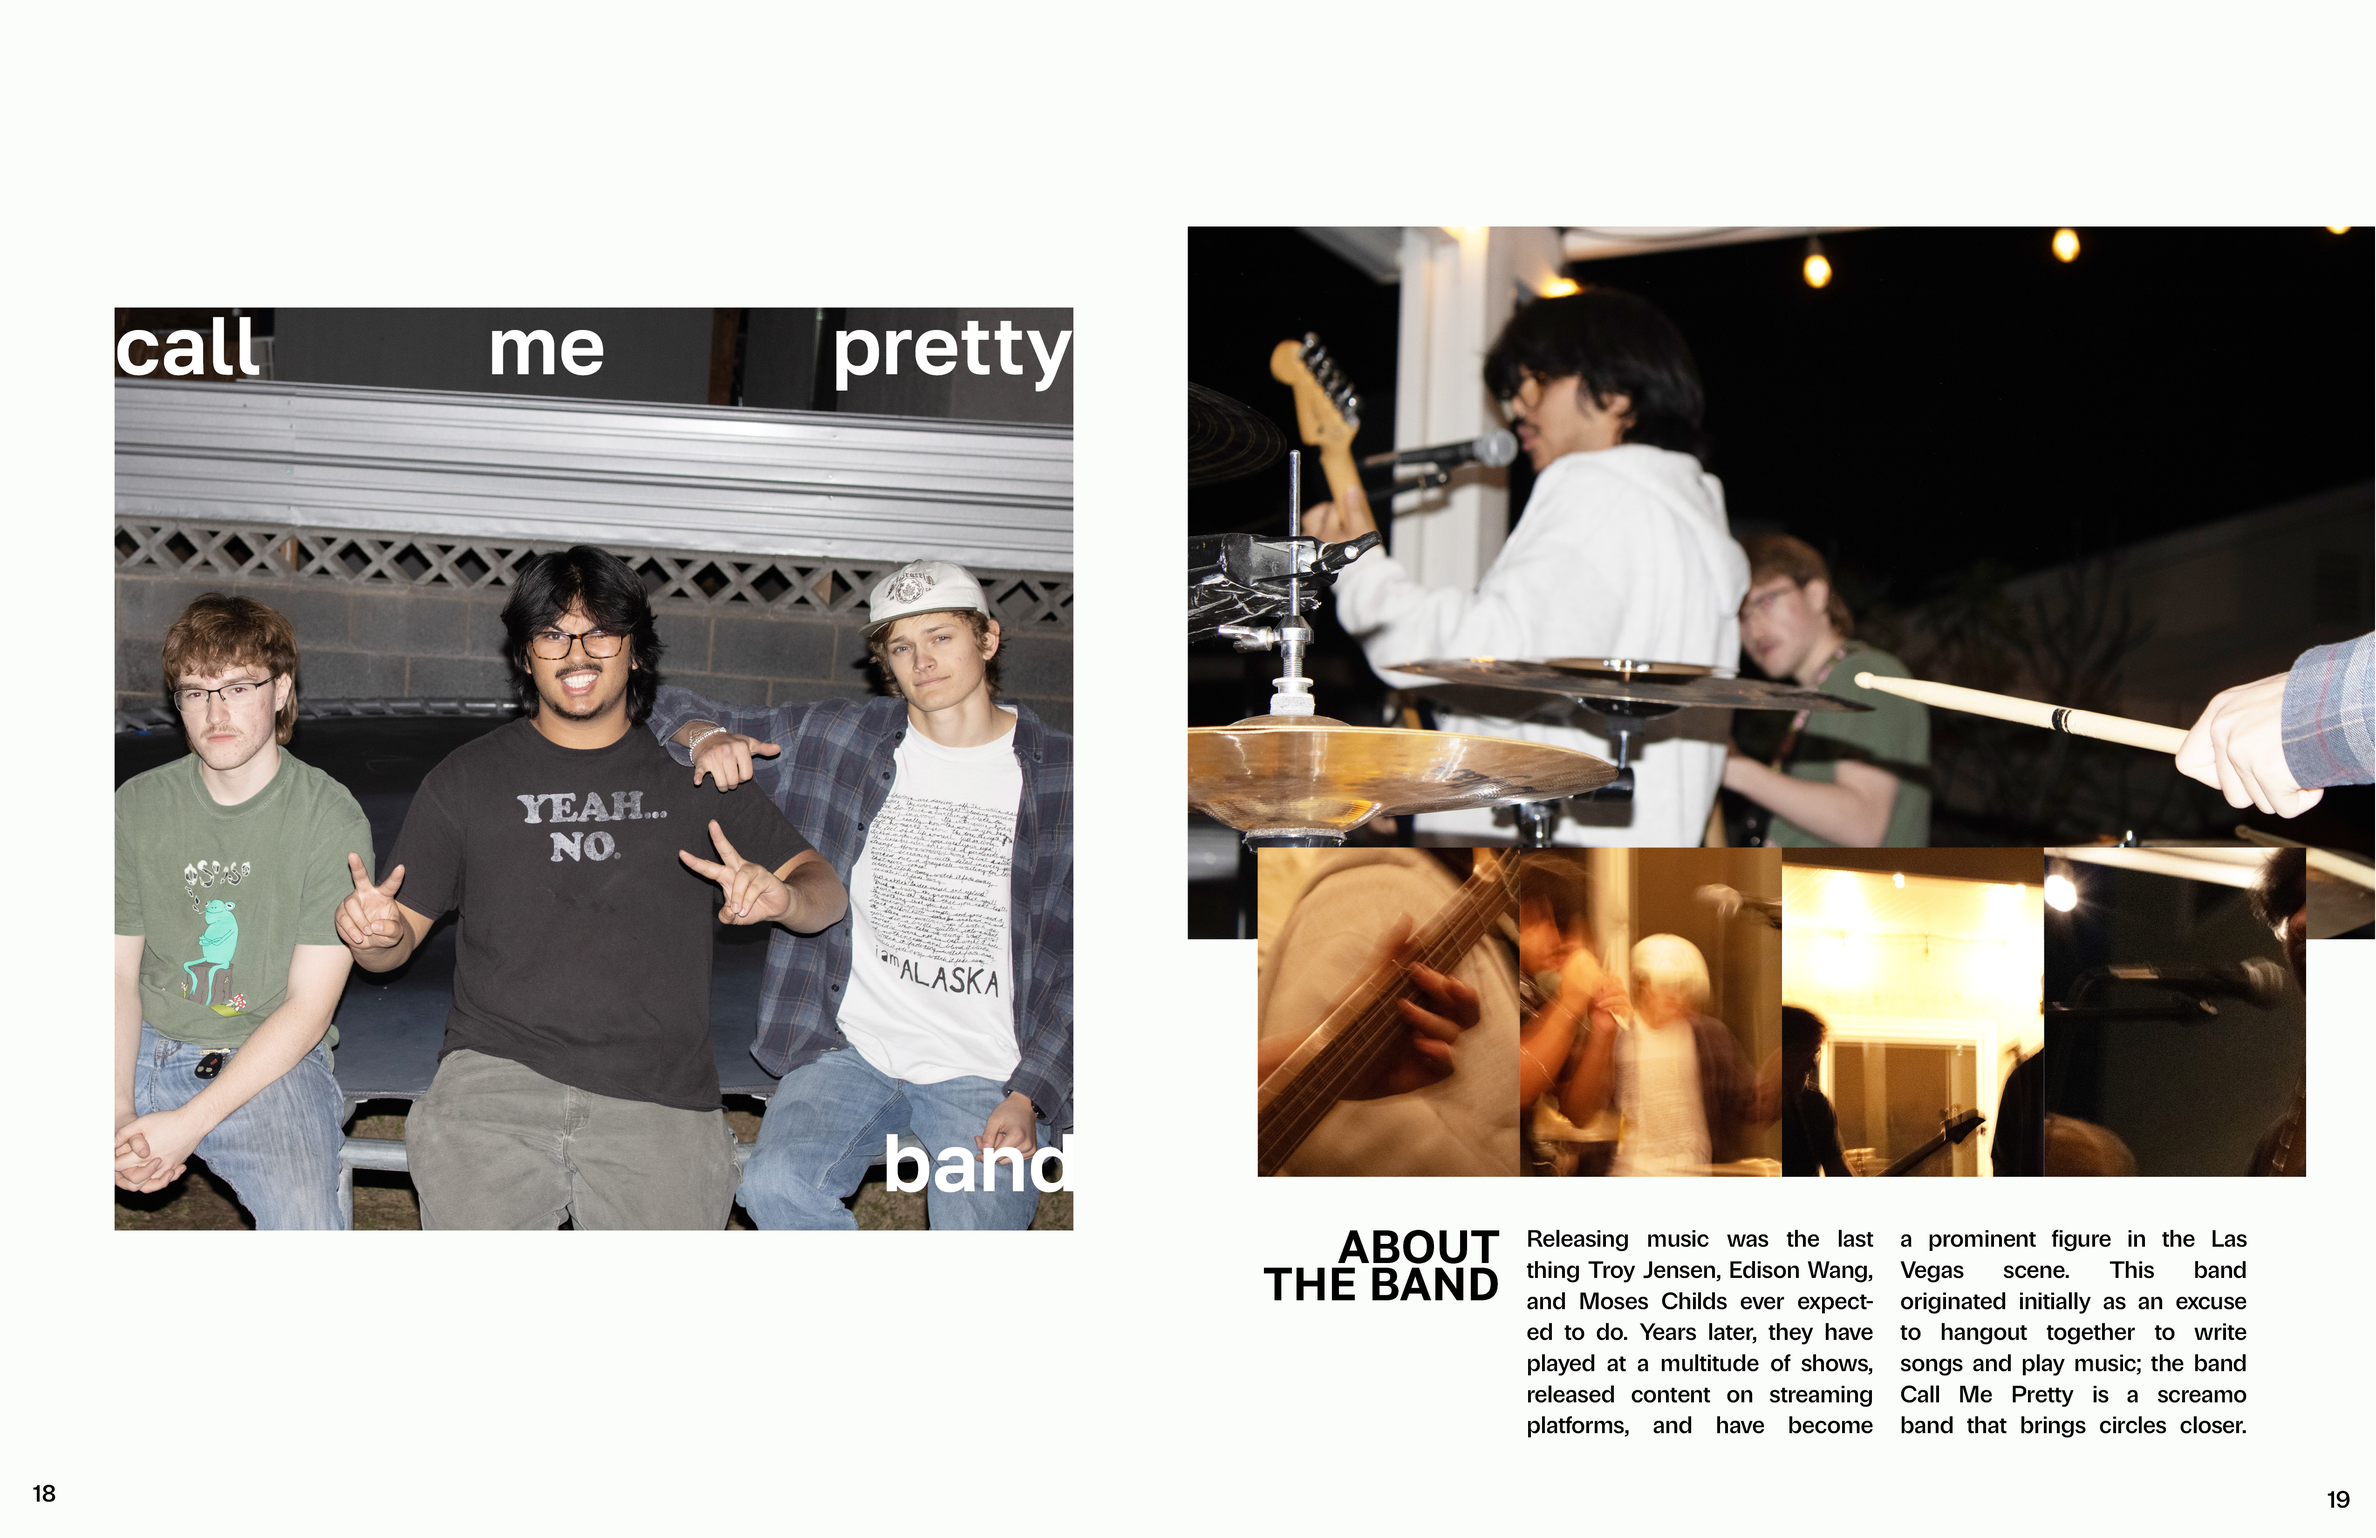
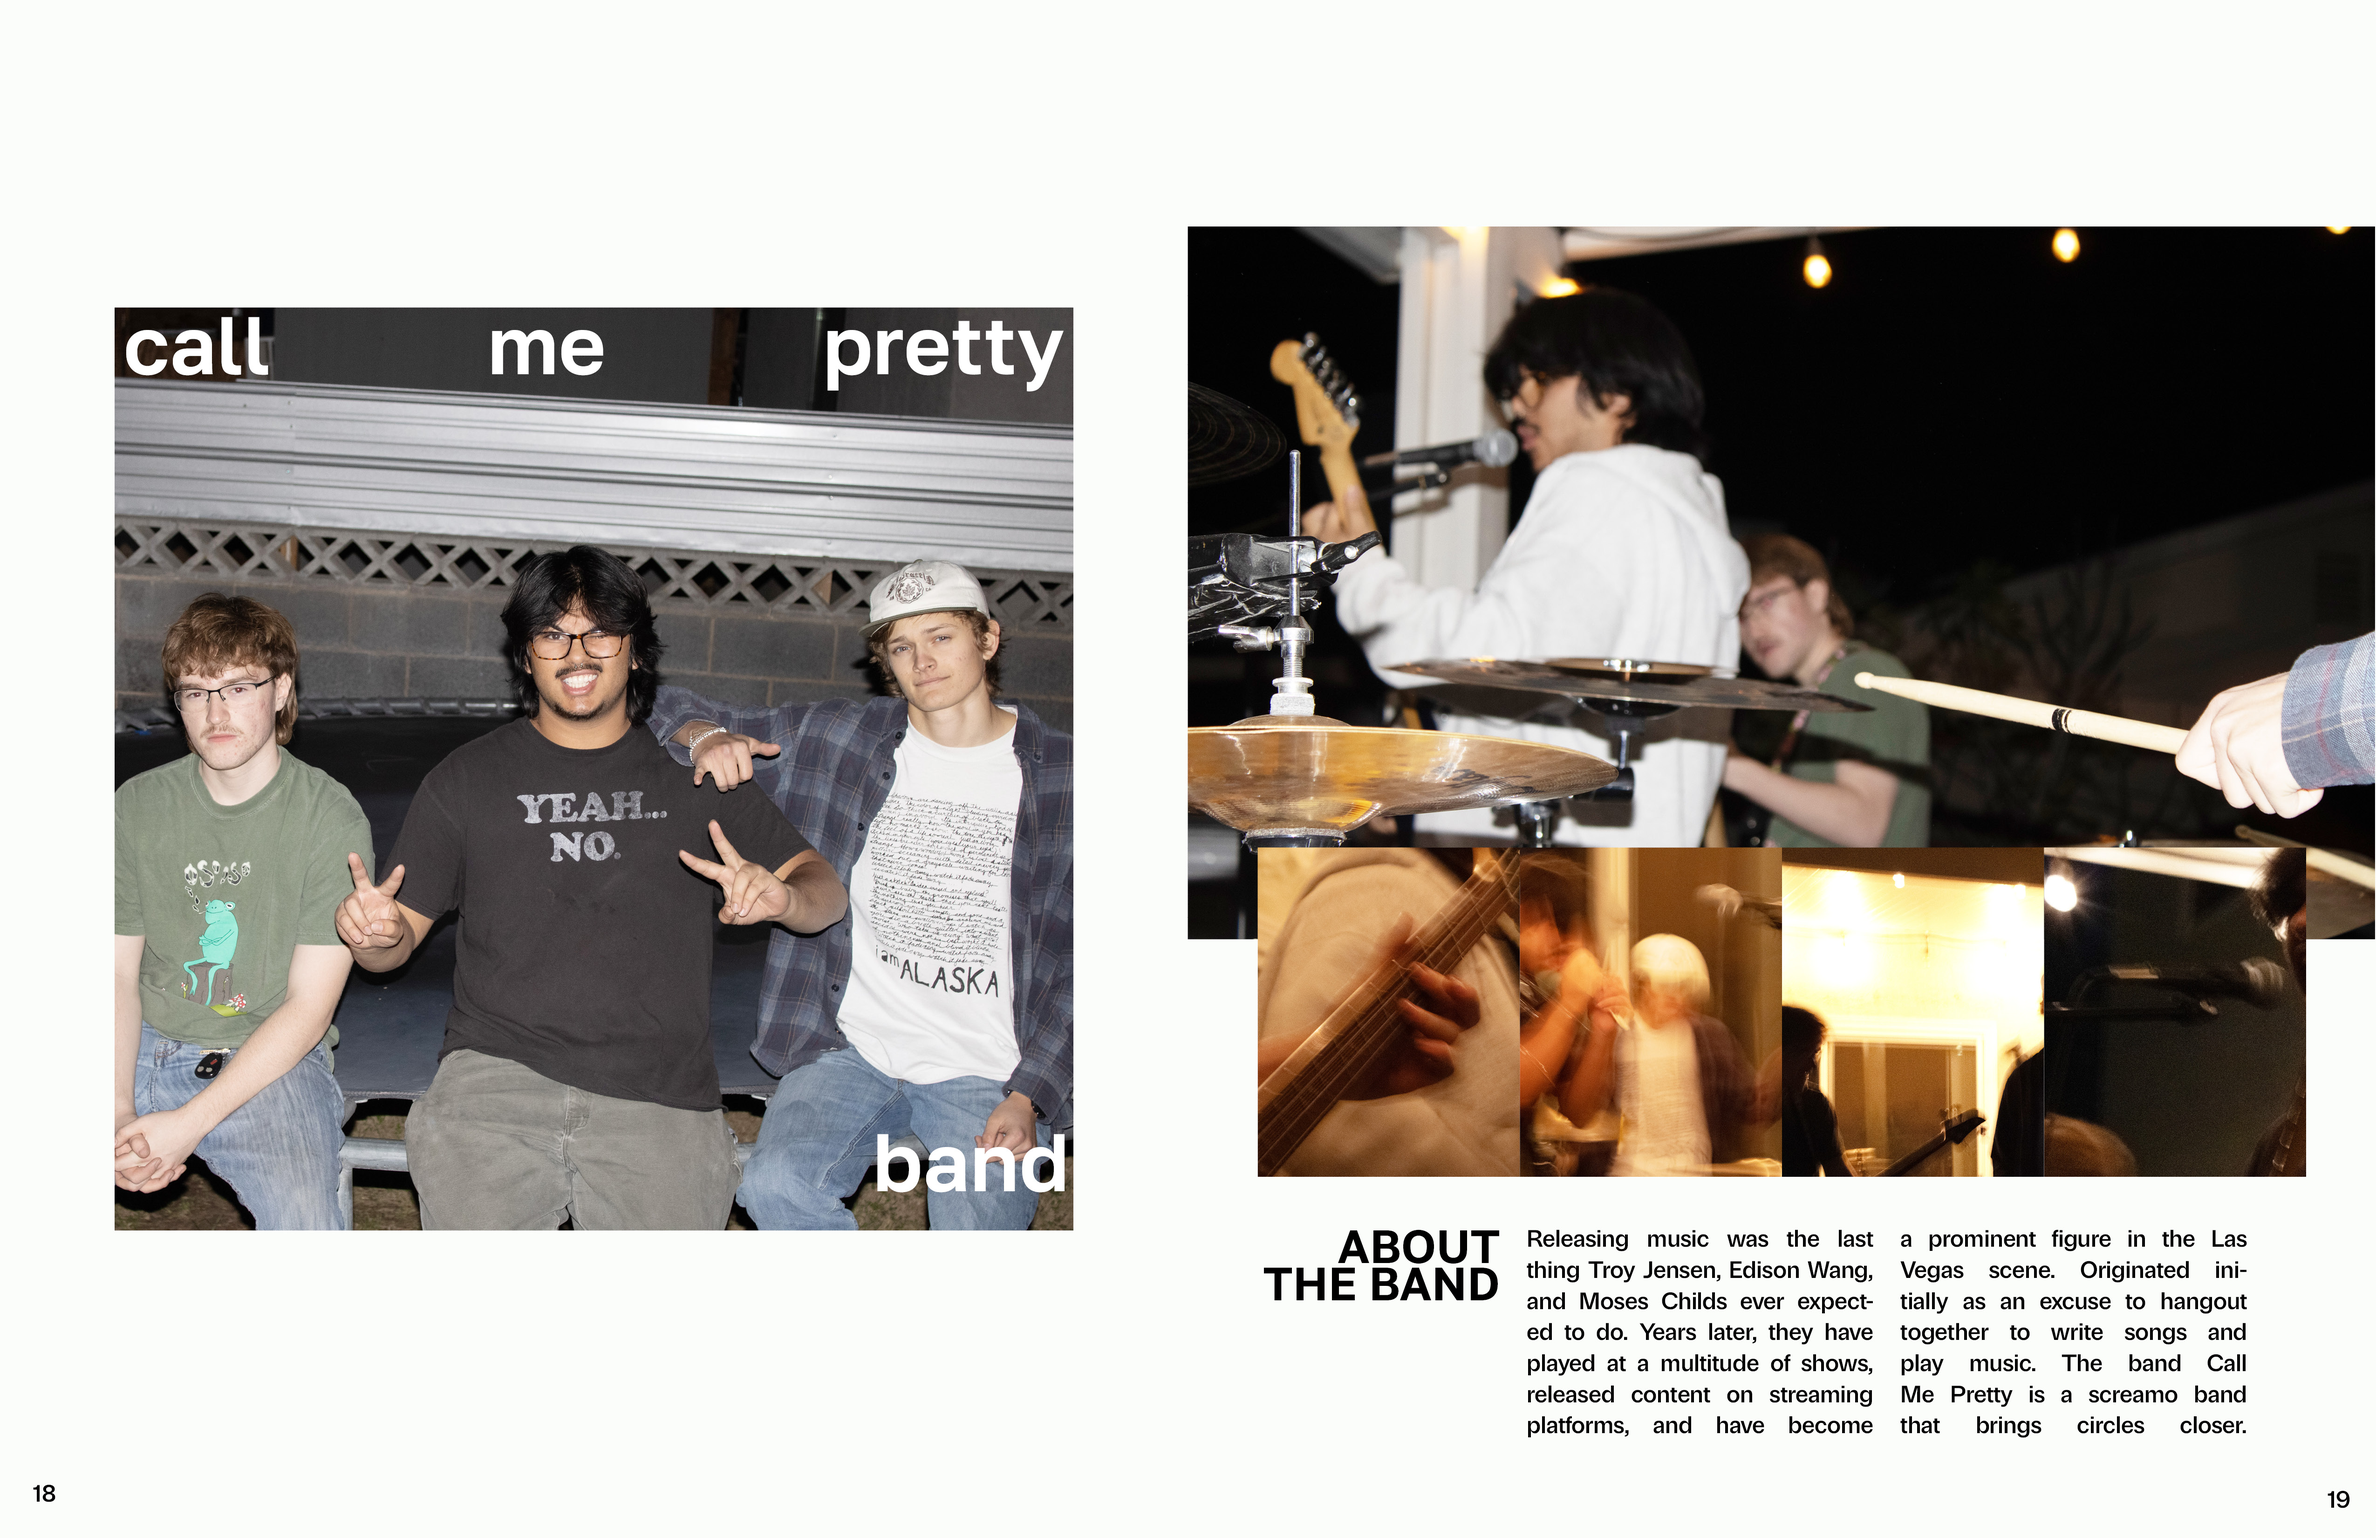
Update newsletter with images, unlink issue 1, show overlays

diff --git a/newsletter.html b/newsletter.html
@@ -25,8 +25,17 @@
 <body>
   <img src="Images/mellowlogo.png" width="800" style="display: block; margin: 0 auto;">
   <img src="Images/newsletter.png" width="250" style="display: block; margin: -50px auto 0;">
-  <p style="display: block; margin: 20px auto; width: 600px; font-family: 'Golos Text', sans-serif; font-size: 18px;">
+  <p style="display: block; margin: 20px auto; width: 600px; font-family: 'Golos Text', sans-serif; font-size: 18px; line-height: 2; text-align: center;">
     
+It has been such a dream working on <b>issue.01. </b> I started this magazine really scared. I talked to people I was afraid of. Going to locations I’ve never been before. Ask my friends—they would know how much I worry about everything. But if I learned anything in life, whenever I’m really scared—it always pays off in the end. Stepping out of your comfort zone is the only way you grow.  So go out, and confront what you’re afraid of.<br>
+<img src="Images/chicagotrain.jpg" style="display: block; margin: 20px auto; max-width: 100%;">
+<b>Issue.02</b>
+  </br>
+GOOD NEWS! <b>I have interviewed all the artists for issue.02. It will come out ALOT sooner.</b> I am aiming for late-may/june!!! I just need to finish this school year strong first :) I THINK I will include five artists, instead of the typical four artists per issue, but I’m not too sure yet! Super excited for what I have in store. I hope you guys enjoyed Issue.01! I'm looking to <b>print issue.01 very soon in April!</b> <br>
+<img src="Images/bridge.jpg" style="display: block; margin: 20px auto; max-width: 100%;">
+Thank you so much for the support. I really appreciate the time you took out of your day to view my work. I hope you have a great day! </p>
+
+
   </p>
   <a href="index.html" class="back">Back</a>
 </body>

diff --git a/index.html b/index.html
@@ -81,7 +81,7 @@
 
     .issueselect-overlay {
       position: absolute;
-      top: calc(25%);
+      top: calc(15%);
       left: 67%;
       transform: translateX(-50%);
       width: 30vw;
@@ -150,11 +150,8 @@
   </div>
   <div class="page2-wrapper">
     <img class="fullscreen" src="Images/Page2.JPG" alt="">
-    <!-- hidden: <img class="issueselect-overlay" src="Images/issueselect.png" alt="Issues"> -->
-    <!-- hidden: <img class="newsletterselect-overlay" src="Images/newsletterselect.png" alt="Newsletter"> -->
-    <!-- hidden: <img class="zineselect-overlay" src="Images/zineselect.png" alt="Zine"> -->
-    <img class="issueselect-overlay" src="Images/homepagequestion.png" alt="Issues">
-    <img class="newsletterselect-overlay" src="Images/homepagequestion.png" alt="Newsletter">
+    <img class="issueselect-overlay" src="Images/issueselect.png" alt="Issues">
+    <a href="newsletter.html"><img class="newsletterselect-overlay" src="Images/newsletterselect.png" alt="Newsletter"></a>
     <img class="zineselect-overlay" src="Images/homepagequestion.png" alt="Zine">
   </div>
   <img class="fullscreen" src="Images/page3.jpg" alt="">
